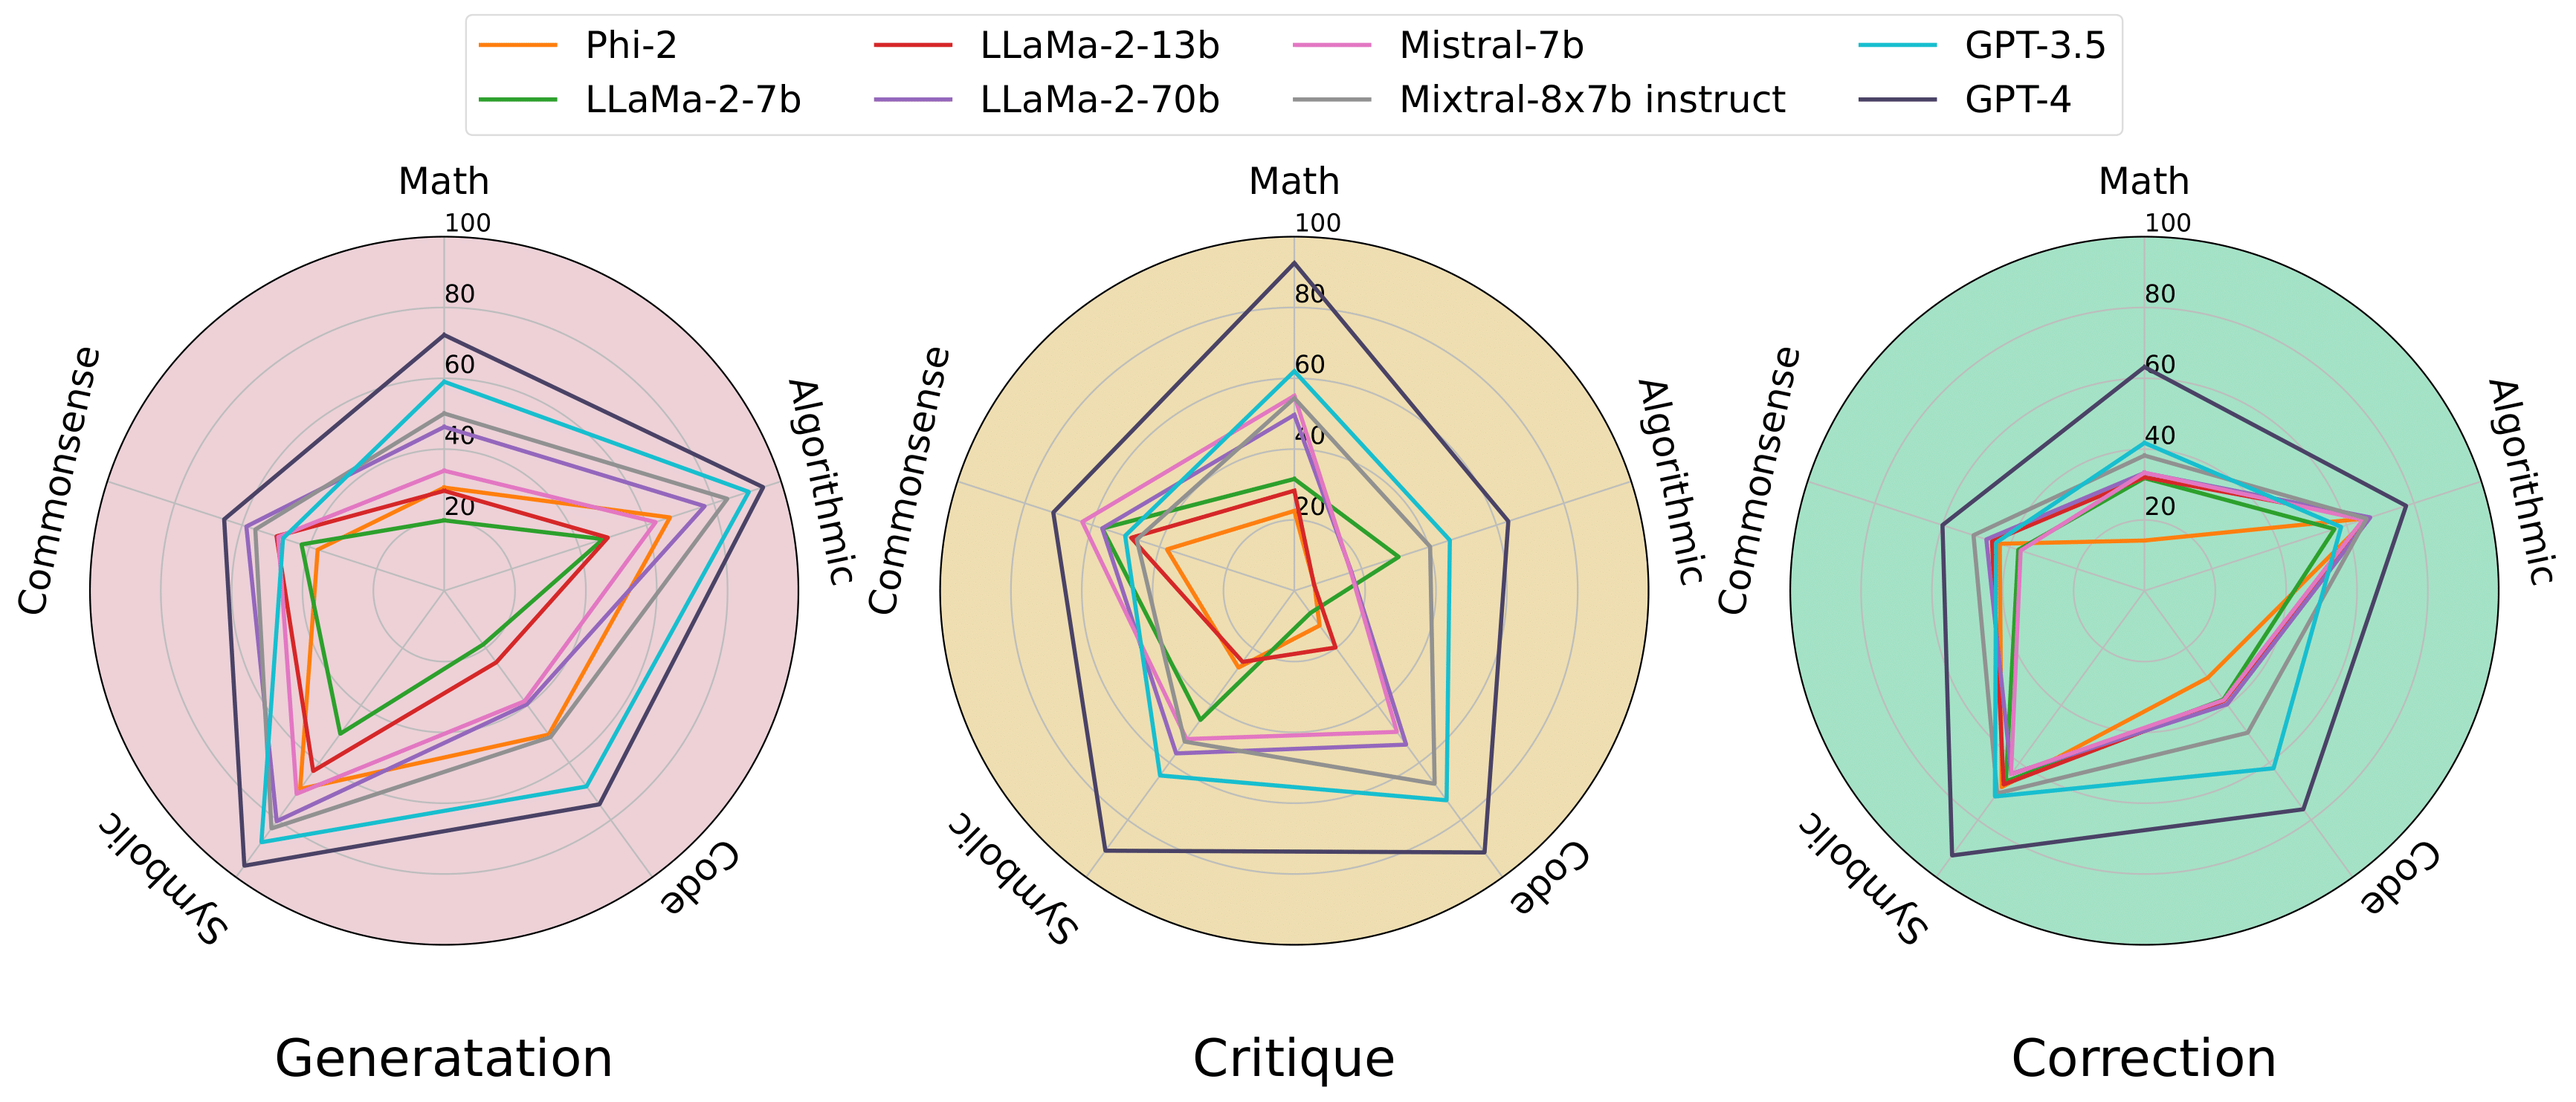
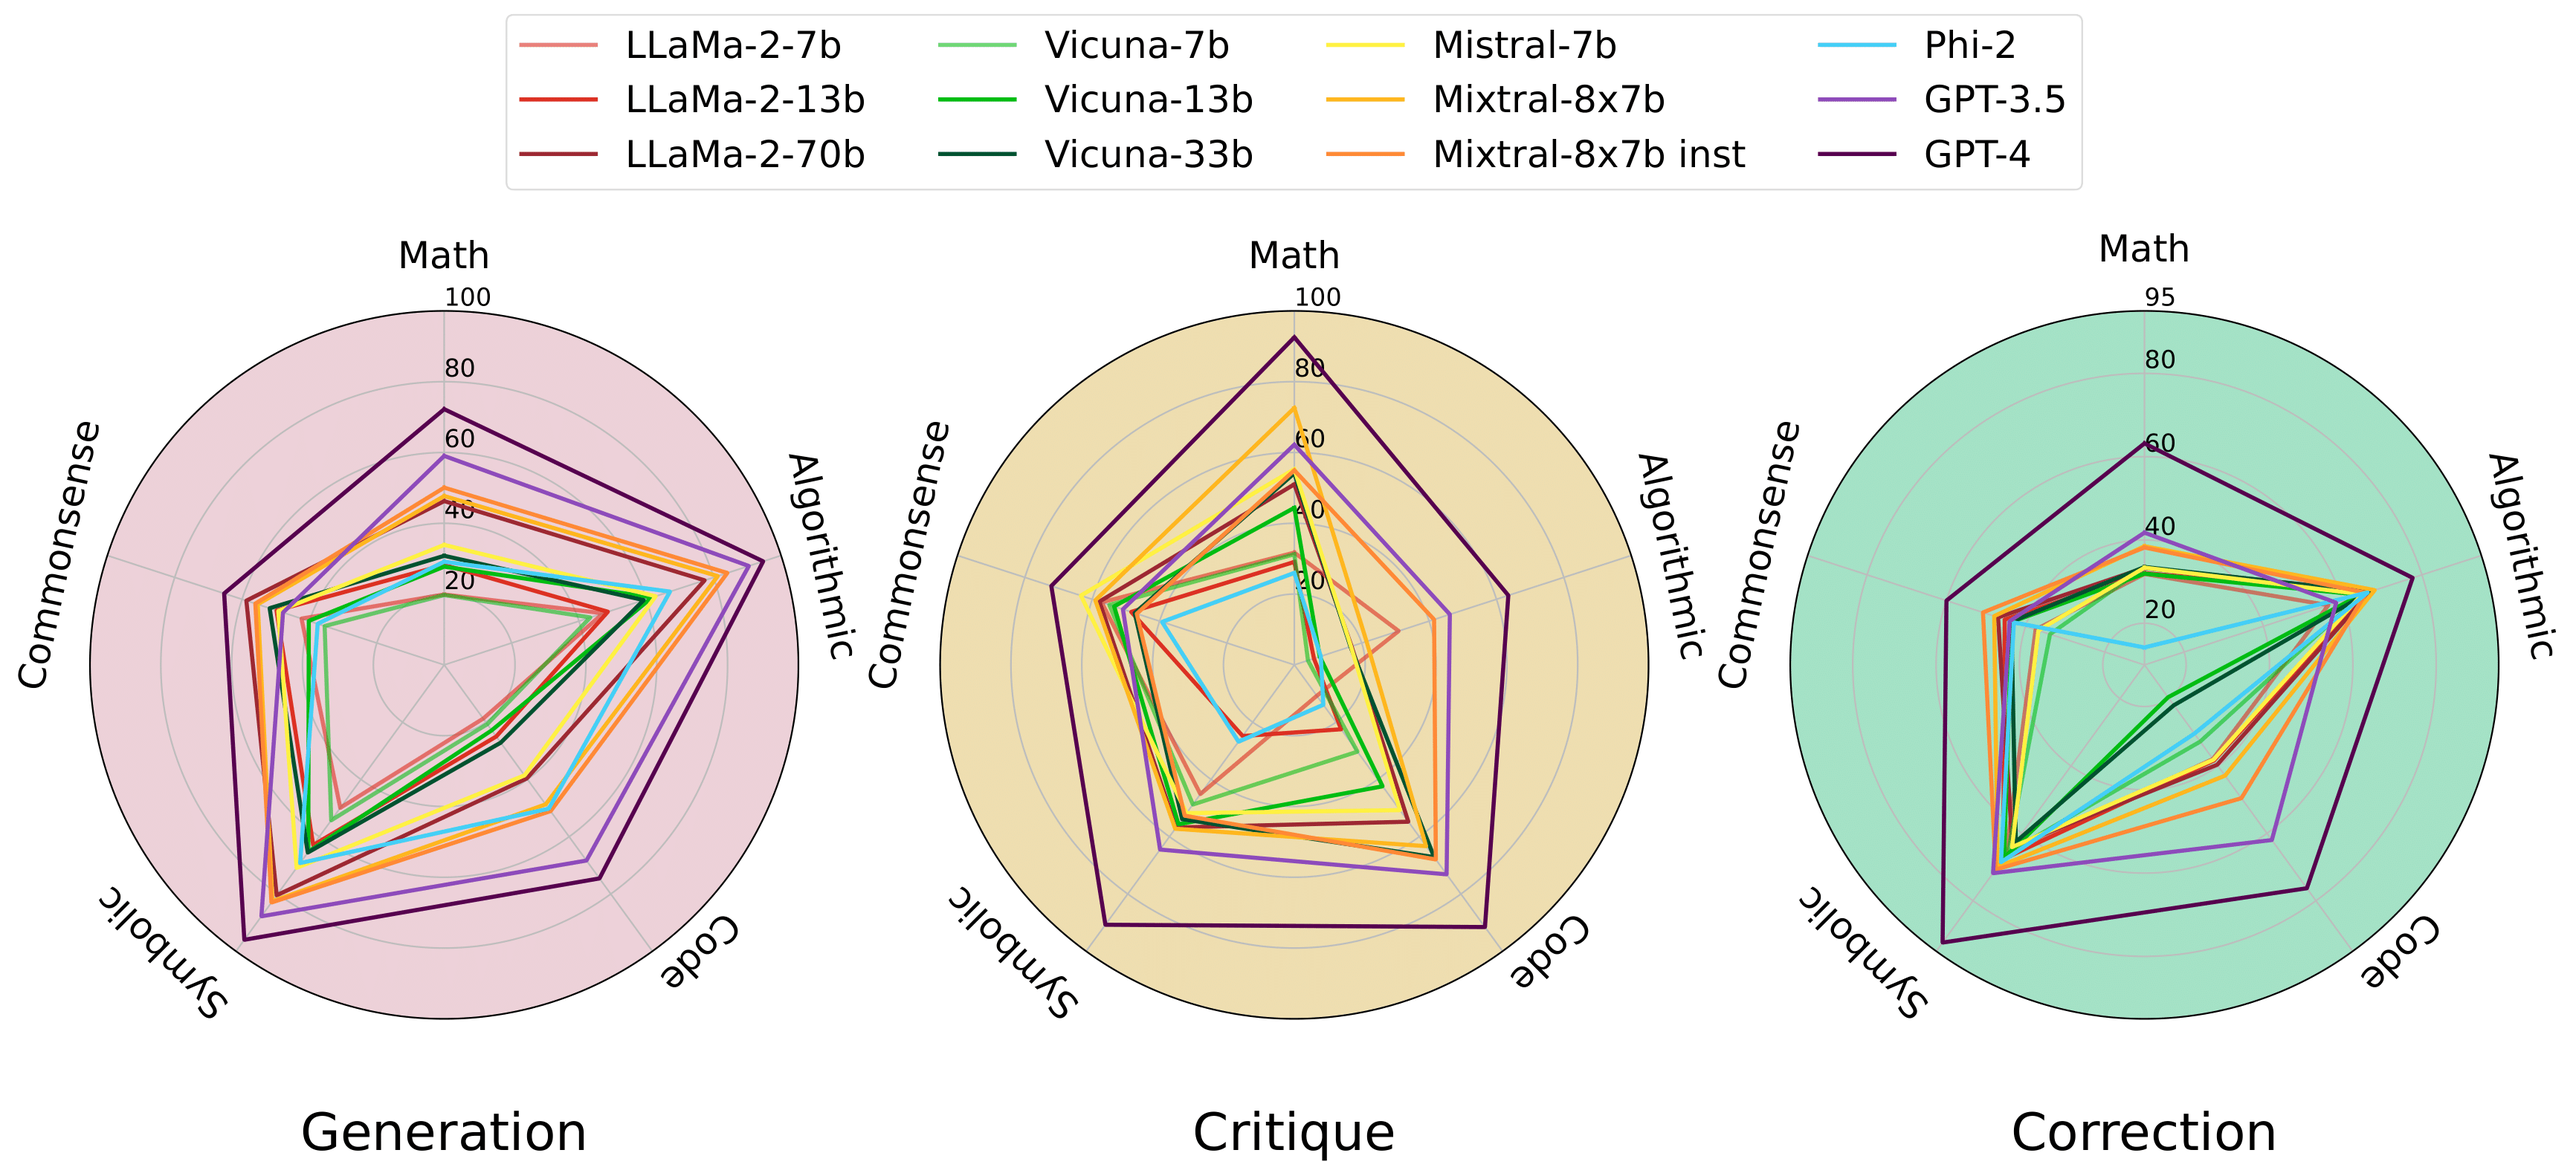
update fig

diff --git a/docs/index.html b/docs/index.html
@@ -131,7 +131,7 @@
                                         <span class="icon">
                                             🤗
                                         </span>
-                                        <span>Dataset</span>
+                                        <span>Dataset (Comming!)</span>
                                     </a>
                                 </span>
 
@@ -193,7 +193,7 @@
                 <div class="container">
                     <h2 class="title is-3 has-text-centered">CriticBench Curation</h2>
                     <div class="item">
-                        <img src="static/images/overview.png" alt="MY ALT TEXT" />
+                        <img src="static/images/overview.png" alt="" />
                         <h2 class="subtitle has-text-centered">
                             Figure 1: An overview for CriticBench curation. 
                         </h2>
@@ -214,22 +214,22 @@
                     <div class="container">
                         <h2 class="title is-3 has-text-centered">RQ1: Key Factors in Critical Reasoning</h2>
                         <div class="item">
-                            <img src="static/images/total_radar.png" alt="" />
+                            <img src="static/images/total_radar_selected.png" alt="" />
                             <h2 class="subtitle">
-                                Figure 2: TODO
+                                <!-- Figure 2: TODO -->
                             </h2>
                         </div>
                         <p>
-                            TODO
+                            <!-- TODO -->
                         </p>
                         <div class="item">
-                            <!-- <img src="static/images/fig2.png" alt="MY ALT TEXT" /> -->
+                            <img src="static/images/main_table.png" alt="" />
                             <h2 class="subtitle">
-                                Table 1: TODO
+                                <!-- Table 1: TODO -->
                             </h2>
                         </div>
                         <p>
-                            TODO
+                            <!-- TODO -->
                         </p>
                     </div>
                 </div>
@@ -237,8 +237,87 @@
         </div>
     </section>
 
+    <section class="hero is-small">
+        <div class="hero-body">
+            <div class="container is-max-desktop is-centered">
+                <div class="container">
+                    <h2 class="title is-3 has-text-centered">RQ2: Correlations of GQC Abilities</h2>
+                    <div class="item">
+                        <img src="static/images/total_relation.png" alt="" />
+                        <h2 class="subtitle has-text-centered">
+                            <!-- Figure TODO -->
+                        </h2>
+                    </div>
+                    <div class="item">
+                        <img src="static/images/relation_with_analyse_type.png" alt="" />
+                        <h2 class="subtitle has-text-centered">
+                            <!-- Figure TODO -->
+                        </h2>
+                    </div>
+                </div>
+                <p>
+                    <!-- TODO -->
+                </p>
+            </div>
+        </div>
+    </section>
 
+    <section class="hero is-small">
+        <div class="hero-body">
+            <div class="container is-max-desktop is-centered">
+                <div class="container">
+                    <h2 class="title is-3 has-text-centered">RQ3: Impact of Task Type</h2>
+                    <div class="item">
+                        <img src="static/images/ava_on_diff_type_task.png" alt="" />
+                        <h2 class="subtitle has-text-centered">
+                            <!-- Figure TODO -->
+                        </h2>
+                    </div>
+                </div>
+                <p>
+                    <!-- TODO -->
+                </p>
+            </div>
+        </div>
+    </section>
 
+    <section class="hero is-small">
+        <div class="hero-body">
+            <div class="container is-max-desktop is-centered">
+                <div class="container">
+                    <h2 class="title is-3 has-text-centered">RQ4: Consistency of GQC Knowledge</h2>
+                    <div class="item">
+                        <img src="static/images/g_d_c_distribution.png" alt="" />
+                        <h2 class="subtitle has-text-centered">
+                            <!-- Figure TODO -->
+                        </h2>
+                    </div>
+                </div>
+                <p>
+                    <!-- TODO -->
+                </p>
+            </div>
+        </div>
+    </section>
+
+    <section class="hero is-small">
+        <div class="hero-body">
+            <div class="container is-max-desktop is-centered">
+                <div class="container">
+                    <h2 class="title is-3 has-text-centered">RQ5: Patterns of Inter-Model Critique</h2>
+                    <div class="item">
+                        <img src="static/images/weak_to_strong.png" alt="" />
+                        <h2 class="subtitle has-text-centered">
+                            <!-- Figure TODO -->
+                        </h2>
+                    </div>
+                </div>
+                <p>
+                    <!-- TODO -->
+                </p>
+            </div>
+        </div>
+    </section>
 
     <!--BibTex citation -->
     <section class="section" id="BibTeX">
